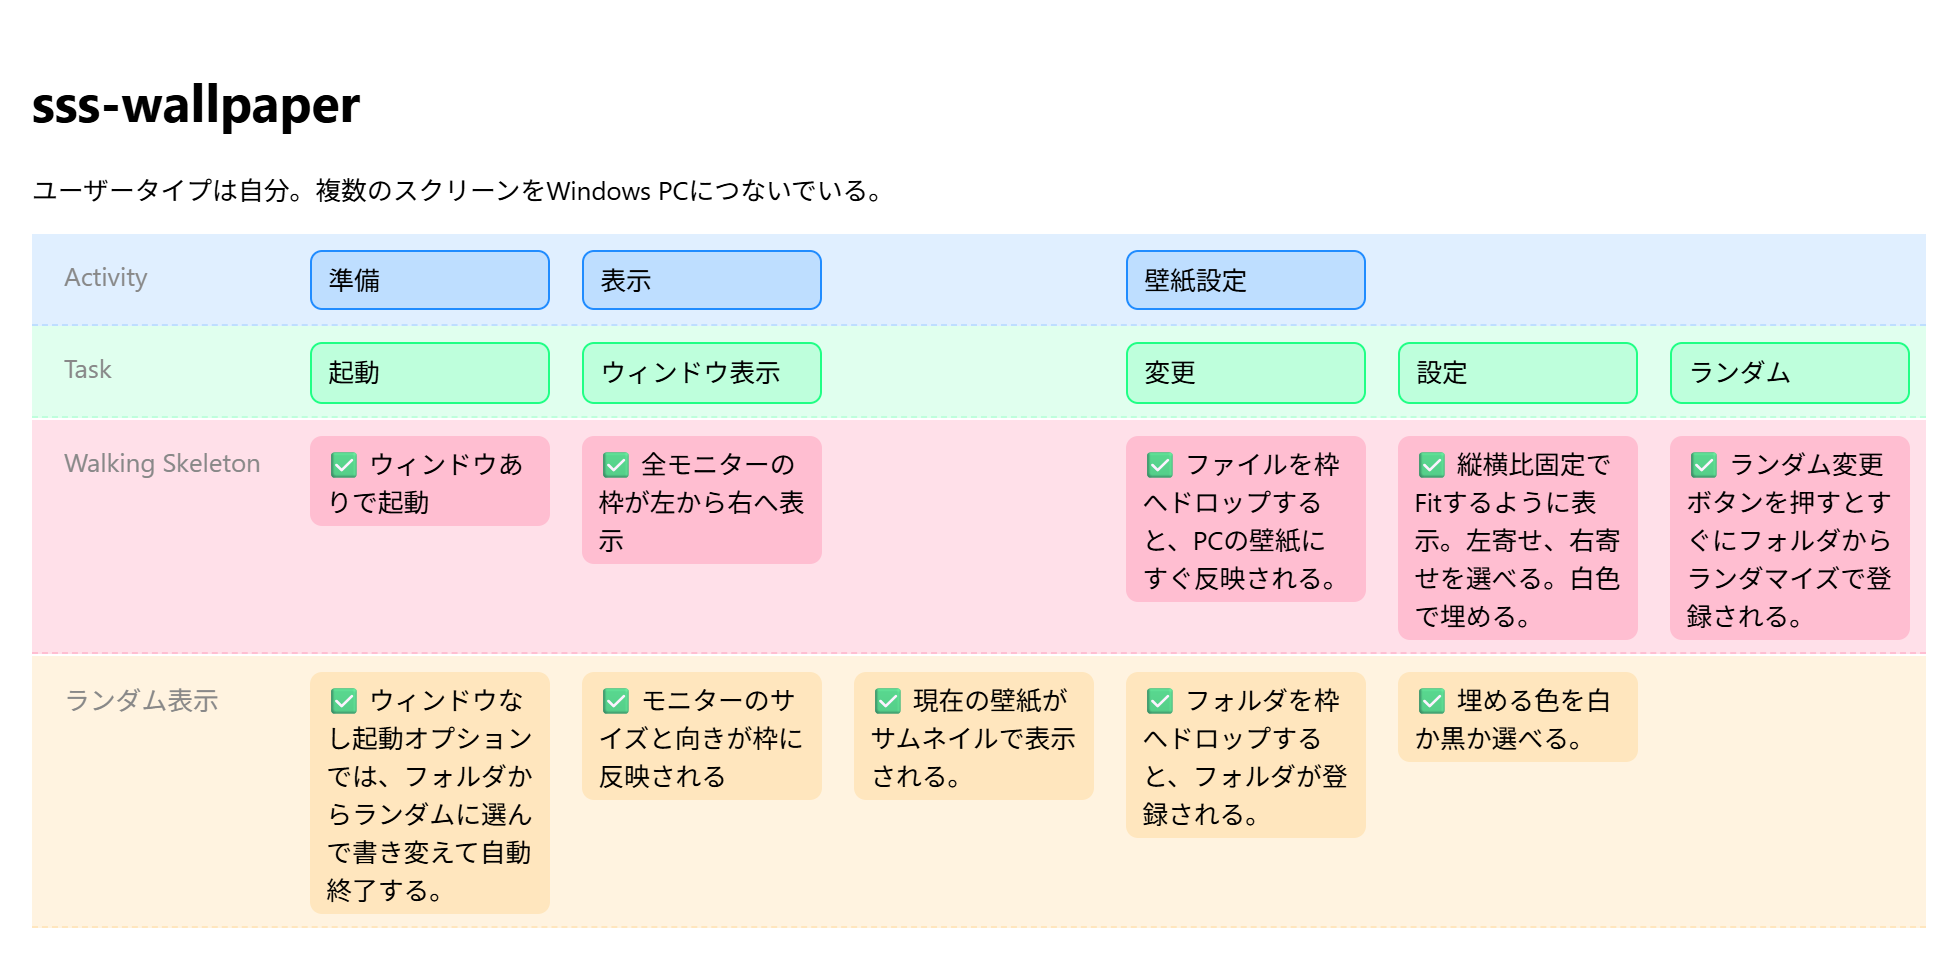
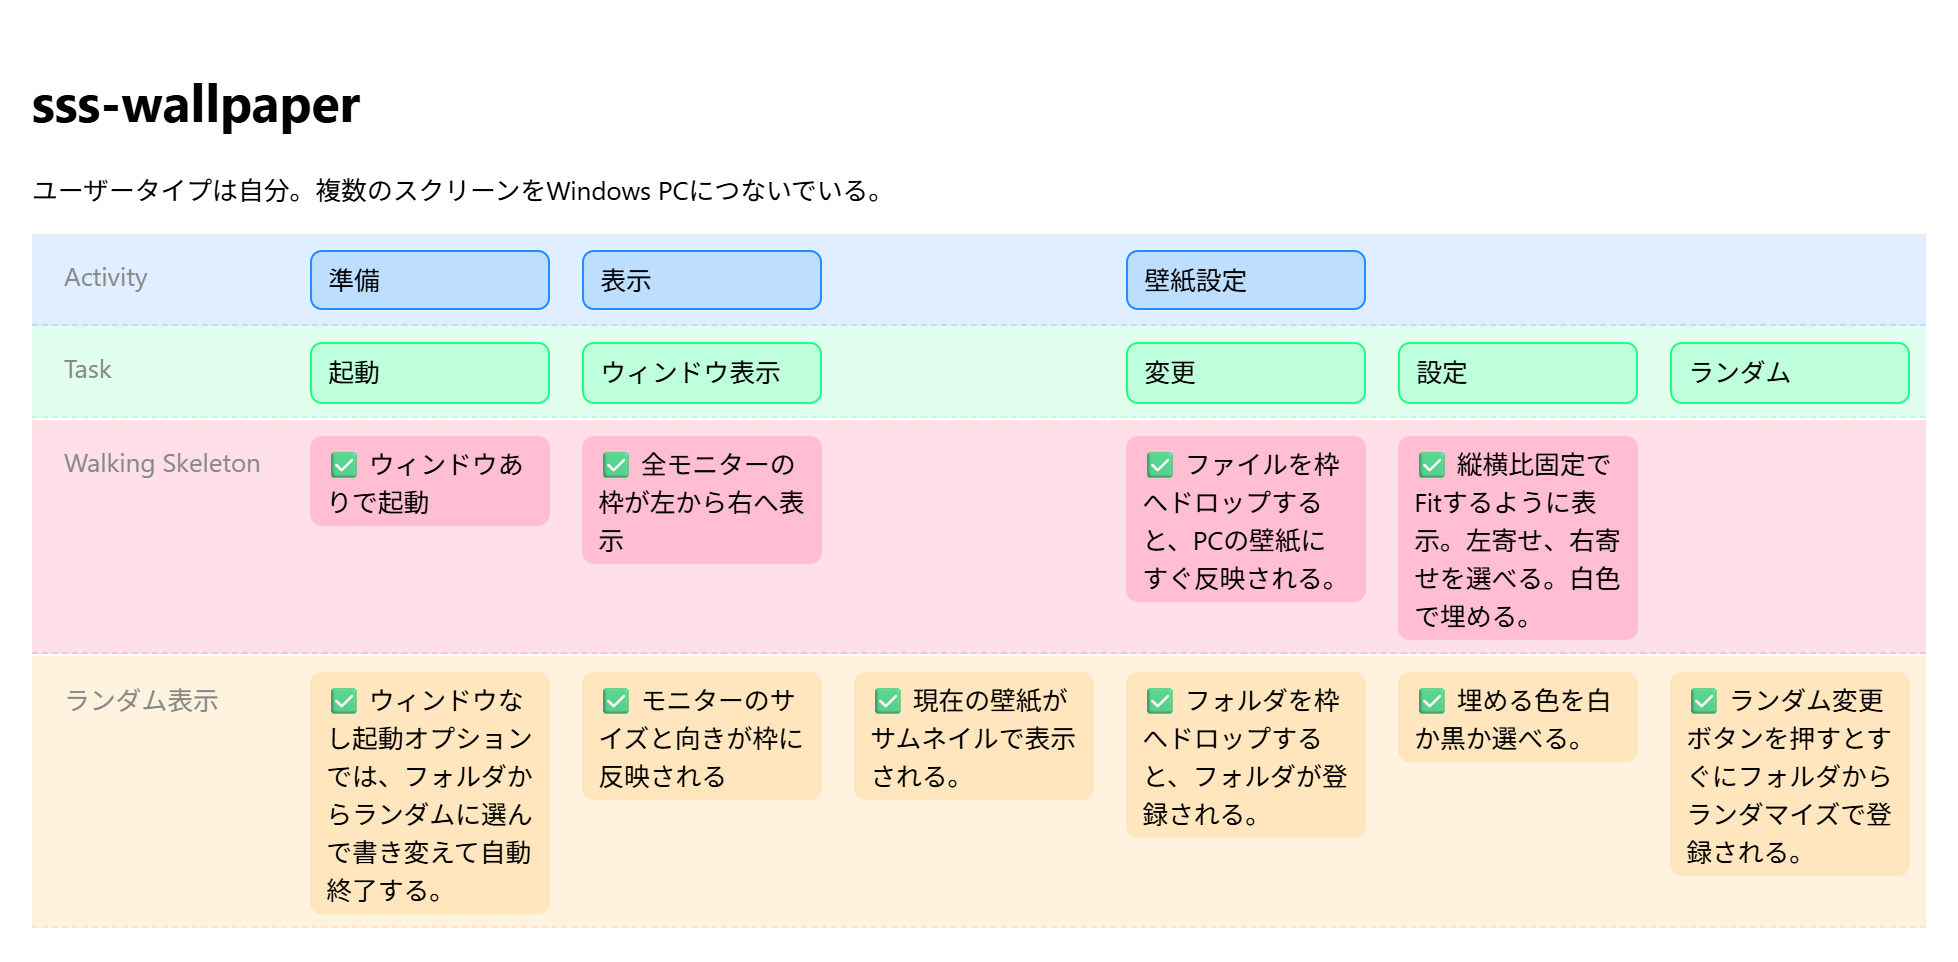
fix: card position on storymap

Changed region(s): [[0.8412, 0.4366, 0.9969, 0.9356]]

diff --git a/docs/storymap.md b/docs/storymap.md
@@ -24,4 +24,4 @@
     - [x] 縦横比固定でFitするように表示。左寄せ、右寄せを選べる。白色で埋める。
       - [x] 埋める色を白か黒か選べる。
   - ランダム
-    - [x] ランダム変更ボタンを押すとすぐにフォルダからランダマイズで登録される。
+    - [x] v ランダム変更ボタンを押すとすぐにフォルダからランダマイズで登録される。
